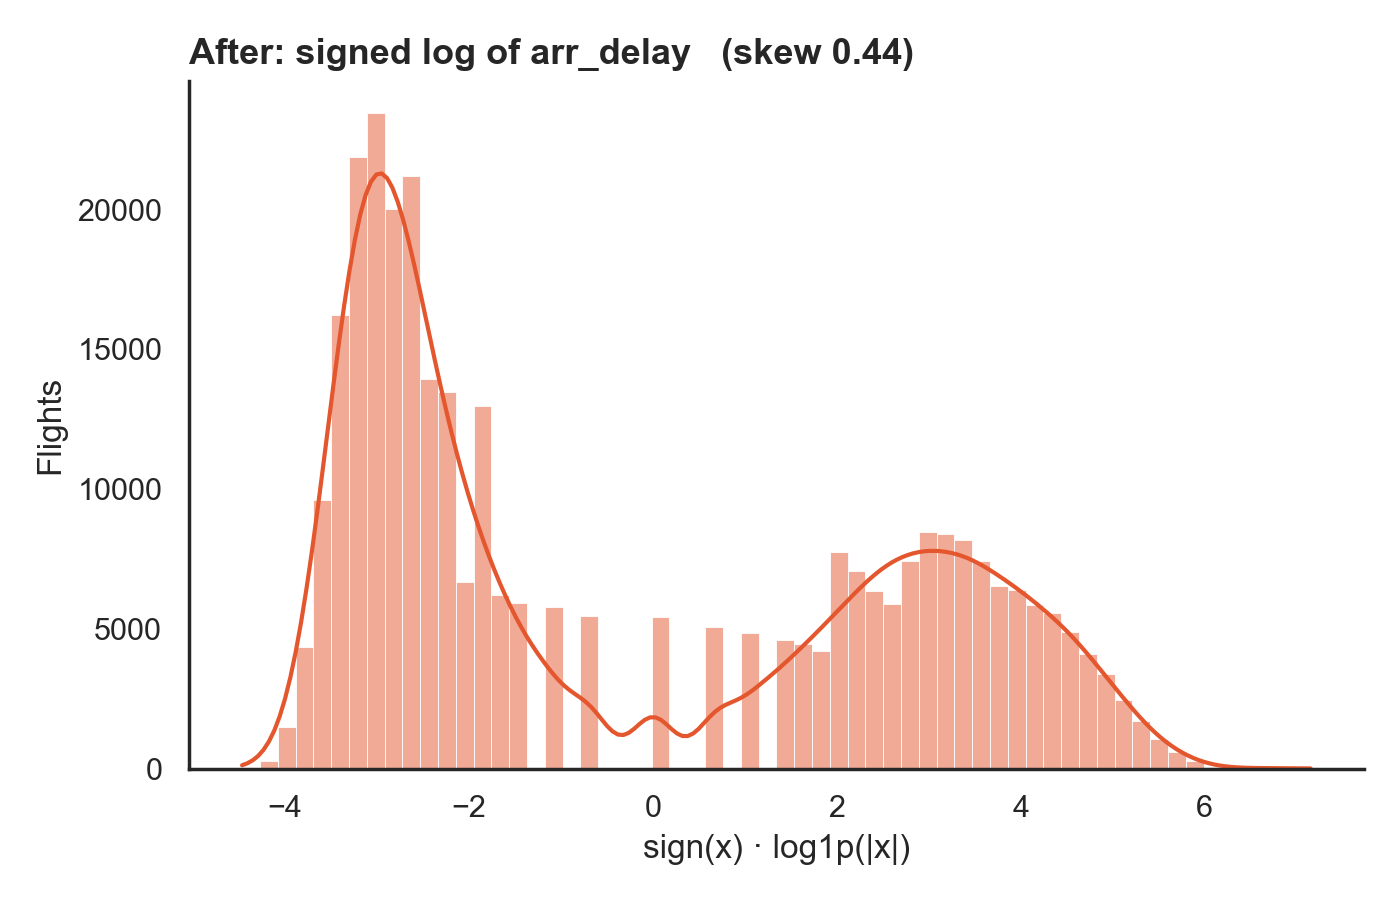
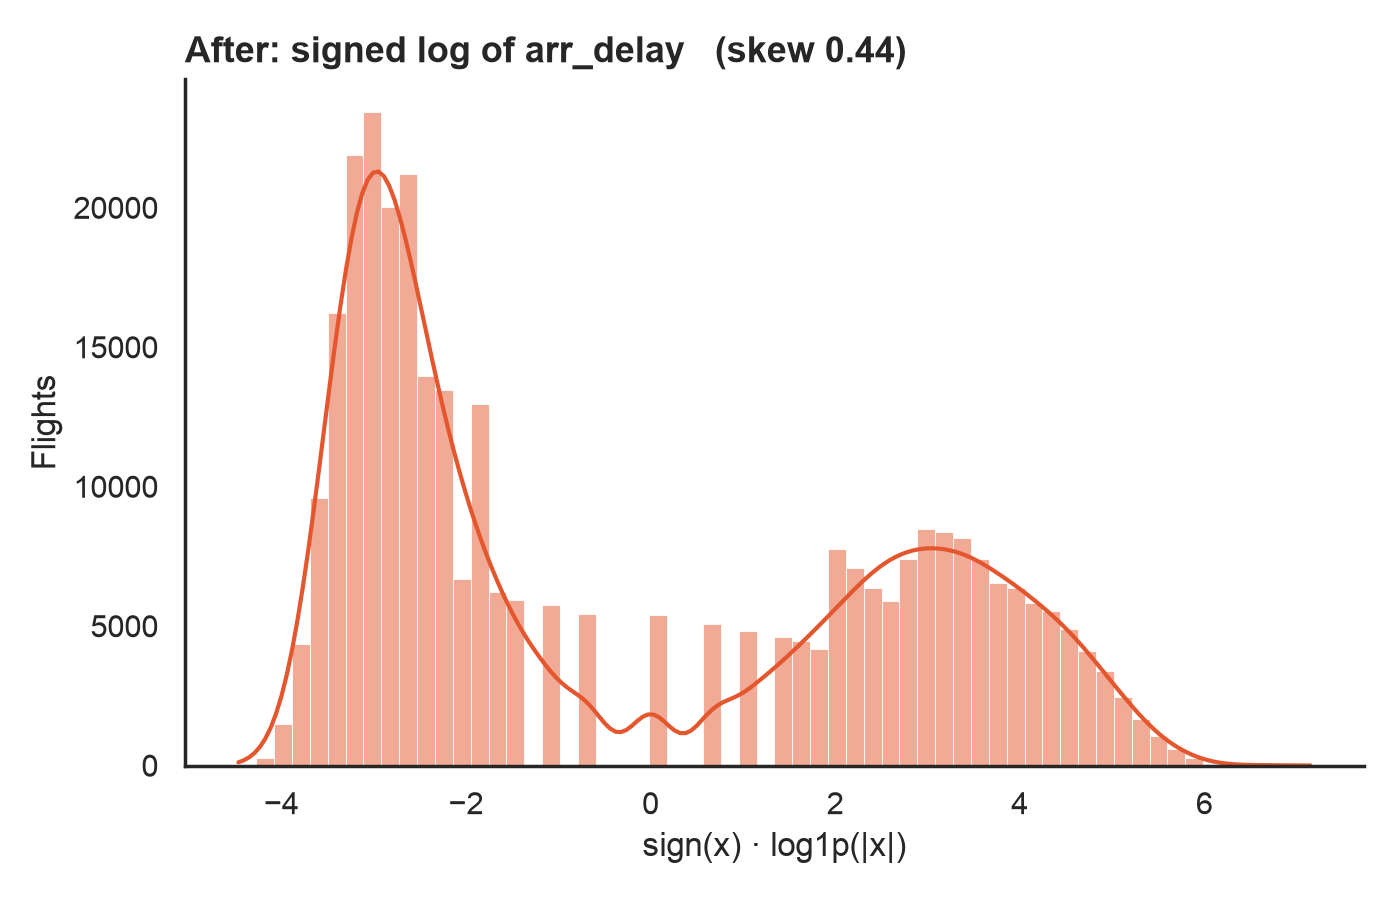
comments: - each file got a comment on how to run it from root

Changed region(s): [[0.0307, 0.0311, 0.9829, 0.9644], [0.0, 0.4044, 0.0614, 0.5289]]

diff --git a/backend/pipeline/bronze.py b/backend/pipeline/bronze.py
@@ -1,3 +1,4 @@
+# python3 -m backend.pipeline.bronze
 """
 This file will handle the download of Flights dataset from kaggle.
 Then save it to the bronze layer of the data folder.

diff --git a/backend/stats/normality.py b/backend/stats/normality.py
@@ -1,3 +1,4 @@
+# python3 -m backend.stats.normality
 """
 Normality checks: Q-Q plot, Kolmogorov-Smirnov, D'Agostino's K^2.
 

diff --git a/backend/pipeline/gold_star.py b/backend/pipeline/gold_star.py
@@ -1,3 +1,4 @@
+# python3 -m backend.pipeline.gold_star
 import os
 import pandas as pd
 from backend.logger import logger

diff --git a/backend/metrics/log_transform_plots.py b/backend/metrics/log_transform_plots.py
@@ -1,3 +1,4 @@
+# python3 -m backend.metrics.log_transform_plots
 import os
 import matplotlib
 matplotlib.use("Agg")

diff --git a/frontend/app.py b/frontend/app.py
@@ -1,3 +1,4 @@
+# python3 -m frontend.app
 from pathlib import Path
 import pandas as pd
 import plotly.express as px

diff --git a/backend/pipeline/gold_obt.py b/backend/pipeline/gold_obt.py
@@ -1,3 +1,4 @@
+# python3 -m backend.pipeline.gold_obt
 import numpy as np
 import pandas as pd
 import os

diff --git a/frontend/test_logger.py b/frontend/test_logger.py
@@ -1,3 +1,4 @@
+# python3 -m frontend.test_logger
 from frontend.front_logger import logger
 
 x = 1 + 2

diff --git a/backend/features/transform.py b/backend/features/transform.py
@@ -1,3 +1,4 @@
+# python3 -m backend.features.transform
 import os
 import joblib
 import numpy as np

diff --git a/backend/pipeline/silver.py b/backend/pipeline/silver.py
@@ -1,3 +1,4 @@
+# python3 -m backend.pipeline.silver
 import json
 import os
 import pandas as pd
